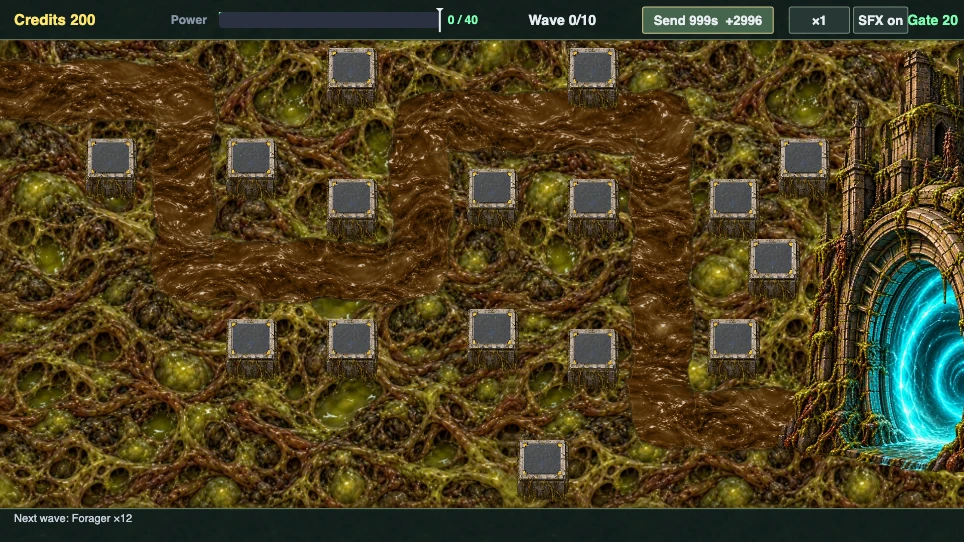
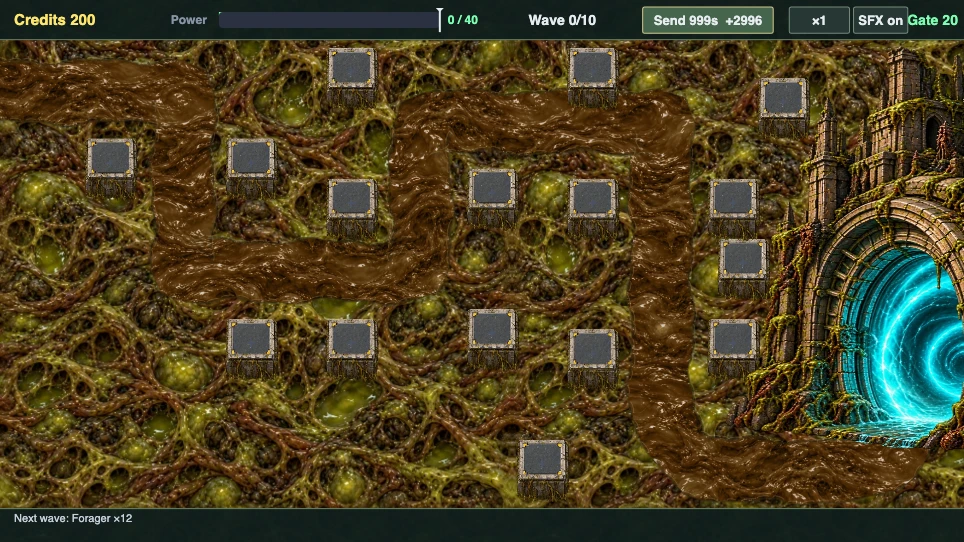
Checkpoint clear full-width approach below the Gate jamb

Changed region(s): [[0.6535, 0.0886, 1.0, 0.9446]]

diff --git a/prototype/index.html b/prototype/index.html
@@ -68,7 +68,18 @@ addEventListener('resize', resize);
 resize();
 
 // ---------------------------------------------------------------- path
-const PATH = [[-30,90],[180,90],[180,270],[420,270],[420,120],[660,120],[660,420],[900,420],[1000,420]];
+// Campaign approach bends below the near jamb, then enters the opening from its footing.
+// Presets retain the recorded route and therefore their historical rules fingerprints.
+const PATH = BALANCE_PRESET
+  ? [[-30,90],[180,90],[180,270],[420,270],[420,120],[660,120],[660,420],[900,420],[1000,420]]
+  : (()=>{
+    const points=[[-30,90],[180,90],[180,270],[420,270],[420,120],[660,120],[660,400]];
+    for(let i=1;i<=12;i++){const a=Math.PI-i*Math.PI/24;points.push([730+70*Math.cos(a),400+70*Math.sin(a)]);}
+    points.push([850,470]);
+    for(let i=1;i<=12;i++){const a=Math.PI/2-i*Math.PI/24;points.push([850+50*Math.cos(a),420+50*Math.sin(a)]);}
+    points.push([900,350]); // 70 units beyond the actual threshold, as on the historical route.
+    return points;
+  })();
 const SEG = []; let TOTAL = 0;
 for (let i = 0; i < PATH.length - 1; i++) {
   const [x1,y1] = PATH[i], [x2,y2] = PATH[i+1];
@@ -77,7 +88,7 @@ for (let i = 0; i < PATH.length - 1; i++) {
   TOTAL += L;
 }
 const GATE_D = TOTAL - 70;               // enemies leak when they reach the Gate
-const GATE = {x: 930, y: 420};
+const GATE = {x: BALANCE_PRESET?930:900, y: 420};
 function posAt(d) {
   if (d <= 0) return {x: PATH[0][0], y: PATH[0][1]};
   for (const s of SEG) if (d <= s.start + s.L) {
@@ -90,7 +101,7 @@ function posAt(d) {
 // ---------------------------------------------------------------- build slots
 // Approved 2026-10-23: clear the monumental Gate; historical presets retain their replay geometry.
 const SLOTS = [[110,160],[250,160],[350,200],[350,340],[250,340],[490,190],[490,330],[590,70],
-  [590,200],[590,350],[730,200],[730,340],BALANCE_PRESET?[820,340]:[770,260],BALANCE_PRESET?[820,490]:[540,460],[350,70],BALANCE_PRESET?[890,300]:[800,160]]
+  [590,200],[590,350],[730,200],[730,340],BALANCE_PRESET?[820,340]:[740,260],BALANCE_PRESET?[820,490]:[540,460],[350,70],BALANCE_PRESET?[890,300]:[780,100]]
   .map(([x,y]) => ({x, y, tower: null}));
 
 // ---------------------------------------------------------------- data
@@ -1775,8 +1786,8 @@ function gatePoint(across,height,depth=0){return [GATE.x-GATE_MOUTH_DEPTH+across
 const GATE_REAR={x:GATE.x-GATE_MOUTH_DEPTH+60*.70,y:GATE.y-GATE_MOUTH_DEPTH*.08-60*.55};
 const GATE_FRONT={x:GATE.x-GATE_MOUTH_DEPTH-60*.70,y:GATE.y-GATE_MOUTH_DEPTH*.08+60*.55};
 // One connected gate/ruin sprite; the shallow cyan footing meets the simulation exit.
-const GATE_DETAIL_ANCHOR={u:.56,v:.87};
-const GATE_DETAIL_WIDTH=LEGACY_GATE_ART?200:330,GATE_DETAIL_HEIGHT=LEGACY_GATE_ART?260:430;
+const GATE_DETAIL_ANCHOR=LEGACY_GATE_ART?{u:.56,v:.87}:{u:.51,v:.92};
+const GATE_DETAIL_WIDTH=LEGACY_GATE_ART?200:420,GATE_DETAIL_HEIGHT=LEGACY_GATE_ART?260:409;
 const GATE_DETAIL_BOX={x:GATE.x-GATE_DETAIL_ANCHOR.u*GATE_DETAIL_WIDTH,y:GATE.y-GATE_DETAIL_ANCHOR.v*GATE_DETAIL_HEIGHT,width:GATE_DETAIL_WIDTH,height:GATE_DETAIL_HEIGHT};
 const GATE_ART_BOX=LEGACY_GATE_ART?{x:GATE.x-140,y:40,width:240,height:452}:{...GATE_DETAIL_BOX};
 const GATE_FLOOR=LEGACY_GATE_ART?[[0,.85],[.55,.85],[.64,.9],[.64,1],[0,1]]:[[.29,.94],[.55,.92],[.68,.95],[.65,1],[.25,1]];

diff --git a/reports/ACTIVE-WORK-CHECKPOINT.md b/reports/ACTIVE-WORK-CHECKPOINT.md
@@ -44,3 +44,9 @@ Source/provenance/rebuild details: assets/art/living-mire-runtime-v2.md. Rebuild
 ## Gate correction — red regression checkpoint
 
 Current task: fix the blocked approach, not change Forager art. tests/gate-approach.cjs samples the full incoming ribbon against the actual upright Gate layers. It must fail on the existing left-jamb obstruction before placement/path changes. tools/capture-organic-world.cjs now exports loadWorld for the same native renderer harness. No Gate/path correction has been applied at this checkpoint.
+
+## Gate correction — geometry checkpoint
+
+Campaign route now rounds the lower approach (70-unit and 50-unit bends) and enters northward at (900,420), instead of crossing the left jamb eastward. The original accepted v6 artwork remains; its box is 420×409 with threshold anchor (.51,.92). Campaign slots 12 and 15 move to (740,260) and (780,100). Preset route, gate and slots remain historical.
+
+Verified: zero masonry intersections along the complete incoming ribbon; the same test rejects the b7b620a route/placement with 1091 hits. The actual leak position equals the rendered threshold. Empty native frames verify cyan across the incoming normal and all 16 tower footprints clear of Gate layers. Whole-map native frame inspected. Pending: actual creature traversal capture, game/replay regression checks and final visual review. Do not claim completion yet.
